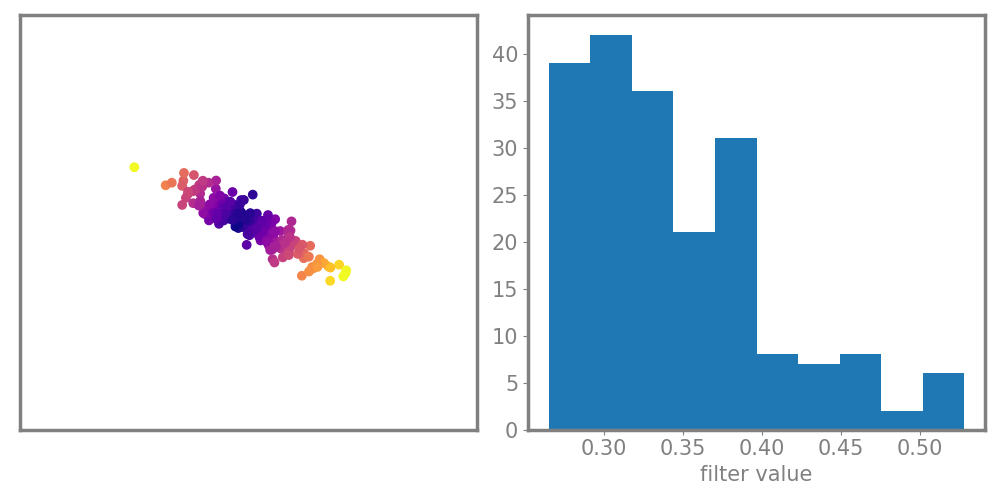
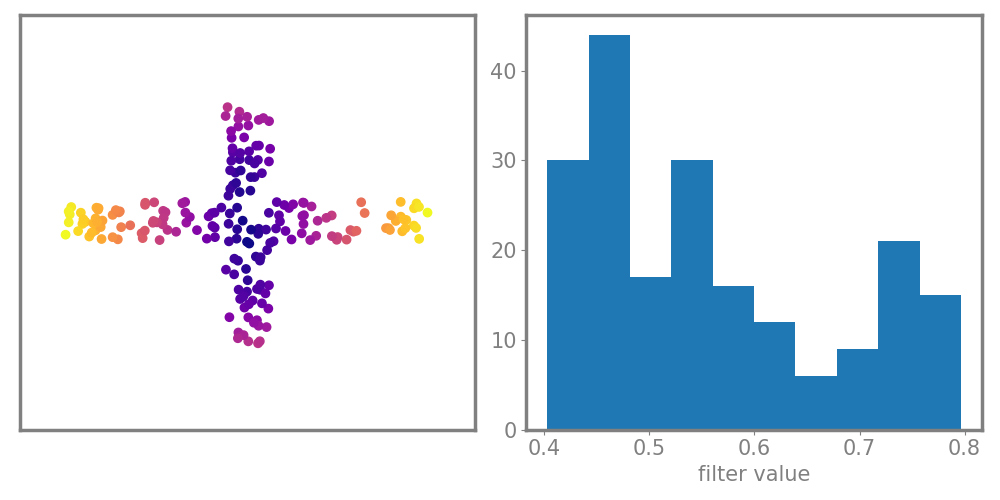
output mapper graphs now color correctly

diff --git a/Mapper/src/mapPlot.py b/Mapper/src/mapPlot.py
@@ -1,6 +1,8 @@
 # Modules
 ## enviroment:
 import matplotlib.pyplot as plt
+import matplotlib.cm as cm 	# for color maps
+import matplotlib.colors as co
 import networkx as nx
 
 from matplotlib import rcParams
@@ -95,17 +97,33 @@ def plotGraph(G, fname, colorAtt=None):
 	A = nx.nx_agraph.to_agraph(G)
 
 	n_nodes = G.number_of_nodes()
+	n_edges = G.number_of_edges()
+
+	if colorAtt is not None:
+		# get node attribute vaues as a list:
+		nodeValues = []
+		for i in range(n_nodes):
+			nodeValues = nodeValues + [G.nodes[i][colorAtt]]
+		# convert node attribute values into colors:
+		nodeColors = cm.plasma(plt.Normalize(min(nodeValues),max(nodeValues))(nodeValues))
+		# convert rgb into hex:
+		for i in range(n_nodes):
+			print(co.rgb2hex(nodeColors[i,0:3]))
+		print(nodeColors)
+
+	# get hex color for matplotlib 'grey'
+	greyHex = co.to_hex('grey')
 
 	for i in range(n_nodes):
-		A.get_node(i).attr['style'] = 'filled'
+		A.get_node(i).attr['style'] = 'filled,setlinewidth(0)'
 		if colorAtt is not None:
-			print(G.nodes[i][colorAtt])
-			A.get_node(i).attr['fillcolor']="#C62E3A"
+			A.get_node(i).attr['fillcolor']=co.rgb2hex(nodeColors[i,0:3])
 		else:
 			A.get_node(i).attr['fillcolor']="#C62E3A"
 
 		A.get_node(i).attr['label'] = ''
-	
+
+	A.edge_attr['linecolor']=greyHex	
 	A.node_attr['shape']='circle'
 	A.layout() # default to neato
 	A.layout(prog='circo') # use circo

diff --git a/Mapper/src/mapper.py b/Mapper/src/mapper.py
@@ -17,14 +17,14 @@ def main():
 	c = (0.5, 0.5)	# center of cluster
 
 	# generate the data:
-	#data = mgt.genCigar(0.3,0.05,c,N, rot_angle=0.3*np.pi)
+	data = mgt.genCigar(0.3,0.05,c,N, rot_angle=0.3*np.pi)
 	#data = mgt.genDisk(0.3, c, N)
 	#data = mgt.genAnnulus(0.1, 0.3, c, N)
 	#data = mgt.genRect(0.2,0.5,c,N)
 	#data = mgt.genCross(0.8,0.6,0.1,c,N,rot_angle=0.)
 	#data = mgt.genS(0.6, 0.1,c,N)
 	#data = mgt.genEight(0.6, 0.1,c,N)
-	data = mgt.genGauss(c, 0.1, 0.02, N, rot_angle=10.)
+	#data = mgt.genGauss(c, 0.1, 0.02, N, rot_angle=10.)
 
 	# pairwise separation matrix:
 	dist = snt.getDistanceMatrix(data)
@@ -52,8 +52,8 @@ def main():
 	# plot the data:
 	#mpt.plotPoints(data, labels=fil_vec, fname='../media/cigar.ecc.png')
 	#mpt.plotShapeHist(data,dist,fname='../media/cigar.shapeHist.png')
-	mpt.plotPointsFilterHist(data,fil_vec, fname='../media/cross.filterHist.den.png')
-	mpt.plotGraph(mp.clusterGraph, '../media/gaus.mapperGraph.png', colorAtt='avfvalue')
+	mpt.plotPointsFilterHist(data,fil_vec, fname='../media/cigar.filterHist.lin.png')
+	mpt.plotGraph(mp.clusterGraph, '../media/cigar.mapperGraph.png', colorAtt='avfvalue')
 
 
 if __name__ == '__main__':
